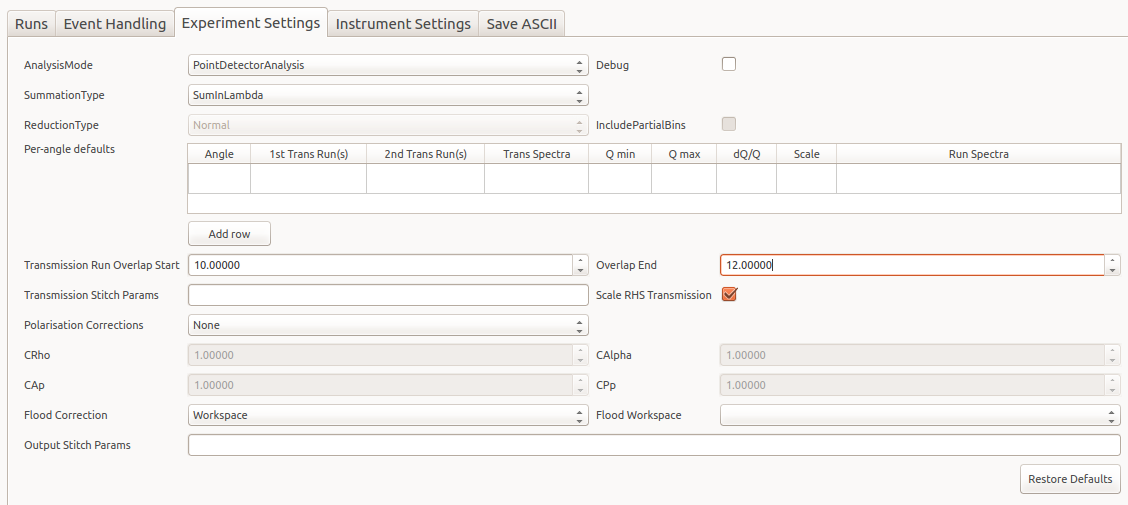
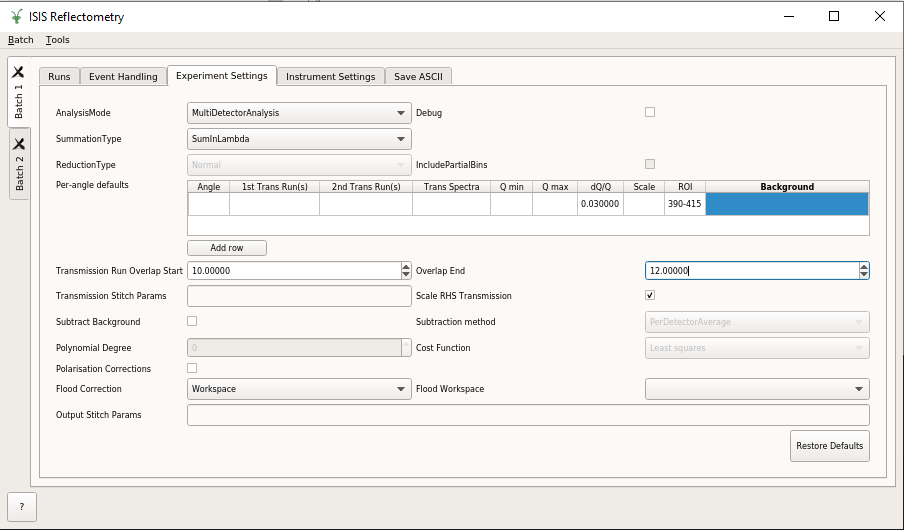
Update release notes and documentation screenshot
Re #27826

diff --git a/docs/source/release/v5.1.0/reflectometry.rst b/docs/source/release/v5.1.0/reflectometry.rst
@@ -12,6 +12,19 @@ Reflectometry Changes
 ISIS Reflectometry Interface
 ############################
 
+New
+---
+
+.. figure:: ../../images/ISISReflectometryInterface/background_subtraction.png
+  :class: screenshot
+  :width: 700px
+  :align: right
+  :alt: Background subtraction on the ISIS Reflectometry Interface
+
+  *Background subtraction on the ISIS Reflectometry Interface*
+
+- Background subtraction options have been added to the ISIS Reflectometry Interface. The subtraction is performed using :ref:`algm-ReflectometryBackgroundSubtraction`.
+
 Bug fixes
 ---------
 
